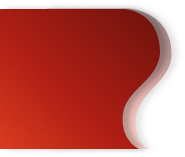
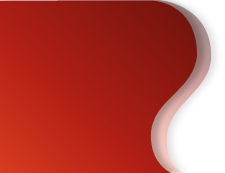
update featured size, offer size, greeting text, footer layout

diff --git a/src/components/footer/footer.scss b/src/components/footer/footer.scss
@@ -8,8 +8,17 @@
         margin: 0 8%;
 
         display: flex;
-        align-items: flex-start;
+        align-items: stretch;
         justify-content: space-between;
+
+        .first-content, .second-content, .third-content{
+            height: 100%;
+            display: flex;
+            justify-content: flex-start;
+            align-items: stretch;
+            flex-direction: column;
+
+        }
 
         .first-content{
 
@@ -36,6 +45,7 @@
                 list-style-type: none;
                 text-align: left;
                 padding-left: 0;
+                margin: 0;
 
                 li{
                     font-size: 20px;
@@ -46,7 +56,7 @@
                     letter-spacing: normal;
                     color: #ffffff;
 
-                    margin-top: 1em;
+                    margin-top: 1.3em;
                 }
             }
         }
@@ -59,20 +69,22 @@
                 display: flex;
                 align-items: center;
                 flex-direction: row;
+                box-sizing: content-box;
 
                 // padding: 2px;
                 
                 input[type=text]{
-                    // width: 100%;
-                    height: 52px;
+                    width: 368px;
+                    height: 60px;
                     border-radius: 8px;
                     box-shadow: 0 5px 10px 0 #00000033;
                     background-color: #ffffff;
+                    box-sizing: border-box;
     
                     border: none;
                     padding-left: 2em;
                     padding-right: 8em;
-                    flex-grow: 2;
+                    // flex-grow: 2;
                 }
     
                 input[type=text]:focus{
@@ -114,7 +126,7 @@
                 justify-content: space-between;
                 align-items: center;
                 padding: 0.5em 1em;
-                // width: 100%;
+                margin-top: 0.5em;
                 
                 border-radius: 5px;
                 border: solid 1px #ffffff;
@@ -156,9 +168,9 @@
                 align-items: center;
                 justify-content: flex-start;
 
-                margin-top: 1em;
+                margin-top: 1.1em;
                 img{
-                    margin-right: 0.5em;
+                    margin-right: 1em;
                 }
             }
         }

diff --git a/src/components/banner/featured-component.scss b/src/components/banner/featured-component.scss
@@ -1,38 +1,50 @@
 .featuredComponent-container{
-    height: 140px;
-    width: 100%;
+    height: 173px;
+    width: 370px;
     margin-right: 2em;
     
     
     .featuredComponent-poster{
         border-radius: 9px;
+        height: 100%;
 
         background-repeat: no-repeat;
-        background-position: right;
+        background-position: top right;
+        // background-size: 100%;
 
         .featured-bg{
-            height: 140px;
-            width: 100%;
             border-radius: 9px 0 0 9px;
+            height: 100%;
 
             background-position: left;
             background-repeat: no-repeat;
+
+            display: flex;
+            align-items: center;
             
             .featured-wrapper{
                 padding: 1.5em 1em;
-                width: 35%;
+                width: 45%;
+                height: 100%;
+                box-sizing: border-box;
+                margin: auto 0;
 
+                display: flex;
+                justify-content: flex-start;
+                align-items: center;
+                flex-direction: column;
 
                 h5{
-                    font-size: 15px;
+                    font-size: 20px;
                     color: white;
                     margin: auto;
                 }
                 p{
                     font-family: Ubuntu;
-                    font-size: 12px;
+                    font-size: 15px;
                     line-height: 1.43;
                     color: #ffffff;
+                    margin-top: 0;
                 }
             }
         }

diff --git a/src/components/footer/index.js b/src/components/footer/index.js
@@ -50,7 +50,7 @@ class Footer extends React.Component{
                             <button className="btn-submit">SUBMIT</button>
                         </div>
 
-                        <h6 style={{marginTop:'2em'}}>CONNECT WITH US</h6>
+                        <h6 style={{marginTop:'3em'}}>CONNECT WITH US</h6>
                         <div className="contact">
                             <div className="phone">
                                 <img src={phone} alt=""></img>

diff --git a/src/components/banner/offer-component.js b/src/components/banner/offer-component.js
@@ -11,8 +11,10 @@ function OfferComponent(props) {
             style={{
                 backgroundImage: 'url('+offerBg+')'
             }}
-        >
-            <div className="offerComponent-wrapper">
+            >
+            <div 
+                className="offerComponent-wrapper"
+            >
                 <p>Save 30% by subscribing to 2 minipacks for 1 year!</p>
                 <a className="link" href="details">VIEW DETAILS</a>
             </div>

diff --git a/src/components/featured/featured.js b/src/components/featured/featured.js
@@ -12,8 +12,7 @@ class Featured extends React.Component{
             <div className="featured-container">
                 <p className="title-small" style={{marginLeft : "8%"}}>RECOMMENDED FOR YOU</p>
                 <Carousel
-                    itemWidth = {300}
-                    slidesPerPage = {3}
+                    itemWidth = {400}
                     draggable
                     keepDirectionWhenDragging
                 >

diff --git a/src/components/banner/offer-component.scss b/src/components/banner/offer-component.scss
@@ -1,16 +1,16 @@
 .offerComponent-container{
-    margin-right: 3em;
+    // margin-right: 3em;
     
-    width: 270px;
     height: 270px;
+    width: 270px;
 
+    border-radius: 5px;
     background-color: black;
     background-repeat: no-repeat;
-    border-radius: 5px;
-
+    
     display: flex;
     align-items: flex-end;
-
+    
     .offerComponent-wrapper{
         display: block;
 

diff --git a/src/components/offer/offer.scss b/src/components/offer/offer.scss
@@ -2,9 +2,13 @@
     margin-top: 3em;
 
     .BrainhubCarousel__container{
+        // justify-content: flex-start;
         .BrainhubCarousel__trackContainer{
             .BrainhubCarousel__track[style]{
                 margin-left: 8% !important;
+                .BrainhubCarouselItem{
+                    justify-content: flex-start;
+                }
             }
         }
     }

diff --git a/src/App.js b/src/App.js
@@ -10,6 +10,7 @@ import Featured from './components/featured/featured';
 import Subscribe from './components/subscribe/subscribe';
 import UserInfo from './components/user-info/user-info';
 import Offer from './components/offer/offer';
+import PosterComponent from './components/poster-component/poster-component';
 
 function App() {
   return (

diff --git a/src/components/subscribe/subscribe.js b/src/components/subscribe/subscribe.js
@@ -31,6 +31,7 @@ class Subscribe extends React.Component{
                         </div>
                         <Carousel
                             itemWidth = {300}
+                            itemHeight = {200}
                             draggable
                             keepDirectionWhenDragging
                         >

diff --git a/src/components/profile-preview/profile-preview.scss b/src/components/profile-preview/profile-preview.scss
@@ -24,6 +24,11 @@
             p{
                 margin: 0;
             }
+
+            .title-small{
+                font-weight: bold;
+            }
+
             .profile{
                 margin: 0.5em 0;
                 font-size: 20px;

diff --git a/src/components/subscribe/subscribe.scss b/src/components/subscribe/subscribe.scss
@@ -27,6 +27,10 @@
                     }
                 }
             }
+
+            .BrainhubCarousel__container{
+                
+            }
         }
     }
 }

diff --git a/src/components/poster-component/poster-component.scss b/src/components/poster-component/poster-component.scss
@@ -1,6 +1,7 @@
 .poster-container{
     width: 270px;
     height: 396px;
+    margin-bottom: 1em;
     border-radius: 5px;
 
     background-color: grey;
